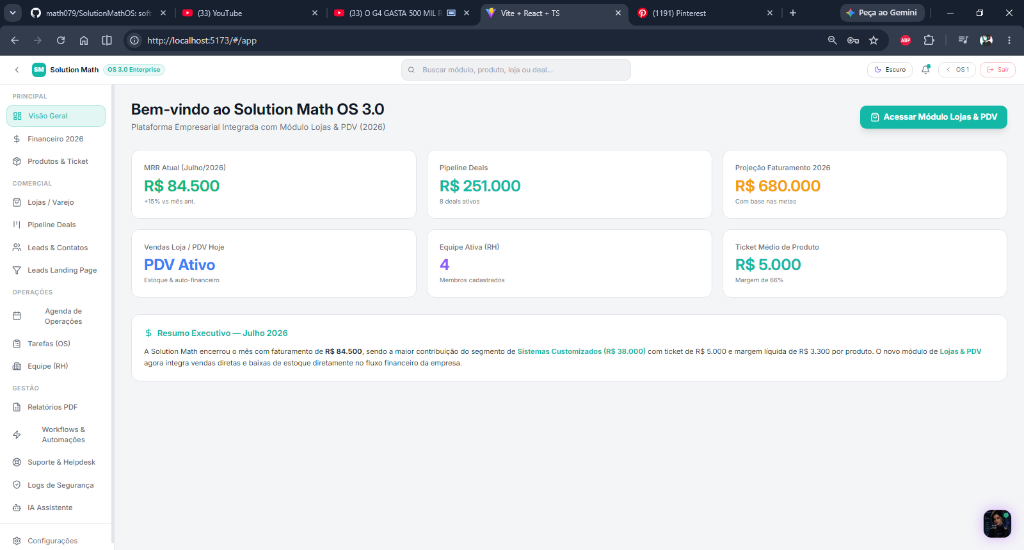
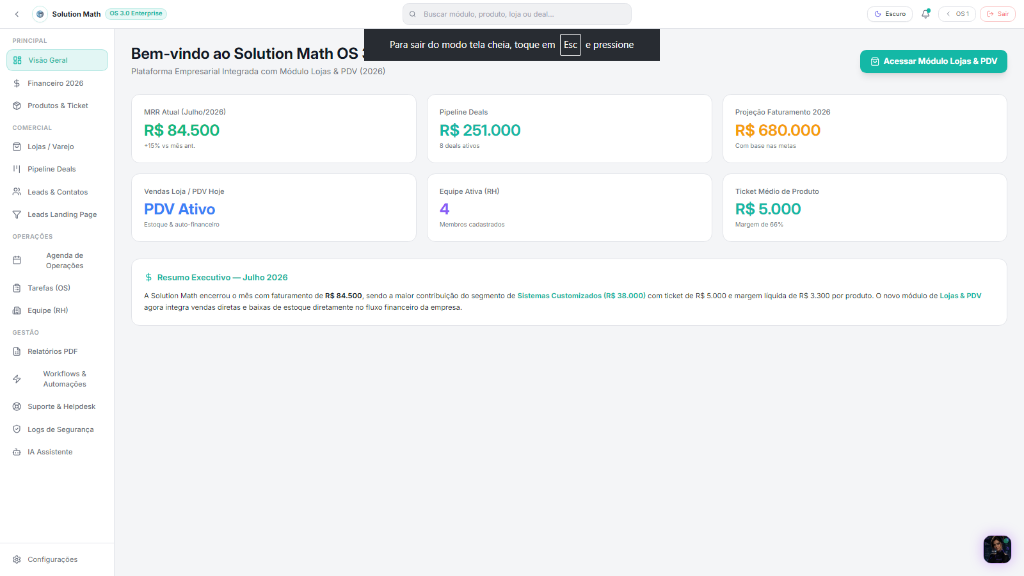
feat: nova screenshot sistema + remocao completa de emojis da landing page

diff --git a/src/pages/LandingPage.tsx b/src/pages/LandingPage.tsx
@@ -192,21 +192,10 @@ const LandingPage: React.FC = () => {
   const [redirectUrl, setRedirectUrl] = useState('');
 
   const generateWhatsAppLink = (name: string, businessType: string, plan: string) => {
-    const emojis: Record<string, string> = {
-      'Mercado / Mercearia': '🛒',
-      'Hortifruti': '🥦',
-      'Pet Shop': '🐾',
-      'Autopeças': '🔧',
-      'Papelaria': '📚',
-      'Materiais de Construção': '🏗',
-      'Distribuidora': '🚚',
-      'Outro comércio': '💼',
-    };
-    const emoji = emojis[businessType] || '💼';
     const planName = plan || 'Growth';
     const segment = businessType || 'meu negócio';
 
-    const text = `Olá, Solution Math! ${emoji}\n\nMeu nome é *${name}* e tenho um(a) *${segment}*.\n\nVi as funcionalidades do Solution Math OS e estou muito interessado no *Plano ${planName}*.\n\nGostaria de agendar uma demonstração gratuita de 30 minutos para ver na prática como o sistema vai me ajudar a organizar estoque, financeiro e clientes.\n\nPodemos conversar agora?`;
+    const text = `Olá, equipe Solution Math!\n\nMeu nome é *${name}* e sou responsável por um(a) *${segment}*.\n\nTenho interesse no *Plano ${planName}* do Solution Math OS.\n\nGostaria de agendar uma demonstração técnica de 30 minutos para avaliar o sistema na prática.\n\nQual o melhor horário para conversarmos?`;
     
     return `https://wa.me/5511939157368?text=${encodeURIComponent(text)}`;
   };
@@ -398,10 +387,10 @@ const LandingPage: React.FC = () => {
               {/* Feature Tabs Selector */}
               <div className="flex items-center gap-2 mb-3 bg-white/80 backdrop-blur-md p-1.5 rounded-2xl border border-gray-200/80 shadow-sm overflow-x-auto">
                 {[
-                  { id: 'dashboard', label: '📊 Visão Geral', badge: 'MRR R$ 84.5K' },
-                  { id: 'pdv', label: '🛒 Lojas & PDV', badge: 'Estoque Auto' },
-                  { id: 'crm', label: '💼 Pipeline Deals', badge: 'Kanban 2026' },
-                  { id: 'lyra', label: '🤖 IA Lyra', badge: 'Memória V2' },
+                  { id: 'dashboard', label: 'Visão Geral', badge: 'MRR R$ 84.5K' },
+                  { id: 'pdv', label: 'Lojas & PDV', badge: 'Estoque Auto' },
+                  { id: 'crm', label: 'Pipeline Deals', badge: 'Kanban 2026' },
+                  { id: 'lyra', label: 'IA Lyra 3.0', badge: 'Memória V2' },
                 ].map(t => (
                   <button
                     key={t.id}
@@ -545,7 +534,7 @@ const LandingPage: React.FC = () => {
 
             <div className="text-center max-w-2xl mx-auto mb-10 relative z-10">
               <span className="inline-flex items-center gap-2 bg-blue-100 text-blue-700 text-xs font-extrabold px-4 py-1.5 rounded-full mb-3 border border-blue-200 uppercase tracking-wider">
-                💡 Calculadora de ROI & Plano Ideal
+                Calculadora de ROI & Plano Ideal
               </span>
               <h2 className="text-2xl md:text-3xl font-extrabold text-gray-900 tracking-tight mb-2">
                 Simule a economia real para o seu comércio.
@@ -566,25 +555,24 @@ const LandingPage: React.FC = () => {
                   </label>
                   <div className="grid grid-cols-2 sm:grid-cols-3 gap-2">
                     {[
-                      { label: 'Mercado / Mercearia', emoji: '🛒' },
-                      { label: 'Pet Shop', emoji: '🐾' },
-                      { label: 'Autopeças / Mat. Const.', emoji: '🔧' },
-                      { label: 'Distribuidora / Varejo', emoji: '🚚' },
-                      { label: 'Prestador de Serviços', emoji: '💼' },
-                      { label: 'Outro comércio', emoji: '🏢' },
+                      'Mercado / Mercearia',
+                      'Pet Shop',
+                      'Autopeças / Mat. Const.',
+                      'Distribuidora / Varejo',
+                      'Prestador de Serviços',
+                      'Outro comércio',
                     ].map(s => (
                       <button
-                        key={s.label}
+                        key={s}
                         type="button"
-                        onClick={() => setCalcSegment(s.label)}
-                        className={`p-3 rounded-xl border text-xs font-bold text-left transition-all flex items-center gap-2 ${
-                          calcSegment === s.label
+                        onClick={() => setCalcSegment(s)}
+                        className={`p-3 rounded-xl border text-xs font-bold text-left transition-all ${
+                          calcSegment === s
                             ? 'bg-blue-600 text-white border-blue-600 shadow-md shadow-blue-500/20'
                             : 'bg-gray-50 hover:bg-gray-100 text-gray-700 border-gray-200'
                         }`}
                       >
-                        <span className="text-base">{s.emoji}</span>
-                        <span className="truncate">{s.label}</span>
+                        <span className="truncate">{s}</span>
                       </button>
                     ))}
                   </div>
@@ -654,32 +642,32 @@ const LandingPage: React.FC = () => {
                   let priceText = 'R$ 347/mês';
                   let hoursSaved = '28 horas/mês';
                   let moneySaved = 'R$ 1.450/mês';
-                  let badgeText = 'MAIS POPULAR ⭐';
+                  let badgeText = 'RECOMENDADO';
 
                   if (calcRevenue === 'ate_30k' && calcUsers === '1_3') {
                     recommendedPlan = 'Start';
                     priceText = 'R$ 197/mês';
                     hoursSaved = '16 horas/mês';
                     moneySaved = 'R$ 680/mês';
-                    badgeText = 'ESSENCIAL 🔵';
+                    badgeText = 'PLANO INICIAL';
                   } else if (calcRevenue === 'acima_300k' || calcUsers === 'mais_10') {
                     recommendedPlan = 'Enterprise';
-                    priceText = 'Sob Consulta (Sob Medida)';
+                    priceText = 'Sob Consulta';
                     hoursSaved = '45+ horas/mês';
                     moneySaved = 'R$ 3.900/mês';
-                    badgeText = 'EXCLUSIVO 👑';
+                    badgeText = 'PLANO CORPORATIVO';
                   }
 
                   return (
                     <div>
                       <div className="flex items-center justify-between mb-4">
-                        <span className="text-[11px] font-black uppercase tracking-wider px-3 py-1 bg-amber-400 text-slate-950 rounded-full">
+                        <span className="text-[10px] font-black uppercase tracking-widest px-3 py-1 bg-blue-500 text-white rounded-full">
                           {badgeText}
                         </span>
                         <span className="text-xs text-slate-400 font-medium">Recomendação Automática</span>
                       </div>
 
-                      <h4 className="text-xs text-blue-300 font-bold uppercase tracking-wider mb-1">Plano Recomendado</h4>
+                      <h4 className="text-xs text-blue-300 font-bold uppercase tracking-wider mb-1">Plano Ideal</h4>
                       <div className="text-3xl font-black text-white mb-1">
                         Plano {recommendedPlan}
                       </div>
@@ -689,15 +677,15 @@ const LandingPage: React.FC = () => {
 
                       <div className="space-y-3 mb-6 bg-slate-950/60 p-4 rounded-2xl border border-slate-800">
                         <div className="flex items-center justify-between text-xs">
-                          <span className="text-slate-400">⏱ Tempo Salvo em Gestão:</span>
+                          <span className="text-slate-400">Tempo Salvo em Gestão:</span>
                           <span className="font-bold text-emerald-400">{hoursSaved}</span>
                         </div>
                         <div className="flex items-center justify-between text-xs">
-                          <span className="text-slate-400">💰 Prevenção de Perdas:</span>
+                          <span className="text-slate-400">Prevenção de Perdas:</span>
                           <span className="font-bold text-emerald-400">{moneySaved}</span>
                         </div>
                         <div className="flex items-center justify-between text-xs">
-                          <span className="text-slate-400">🚀 Prazo de Implantação:</span>
+                          <span className="text-slate-400">Prazo de Implantação:</span>
                           <span className="font-bold text-blue-300">Até 48 horas</span>
                         </div>
                       </div>
@@ -830,8 +818,8 @@ const LandingPage: React.FC = () => {
                     : 'bg-white border-2 border-gray-200 hover:border-blue-200 hover:shadow-xl'}`}
               >
                 {plan.badge && (
-                  <div className="absolute top-0 left-1/2 -translate-x-1/2 -translate-y-1/2 bg-amber-400 text-amber-900 text-[11px] font-extrabold px-4 py-1 rounded-full shadow-lg whitespace-nowrap">
-                    ⭐ {plan.badge}
+                  <div className="absolute top-0 left-1/2 -translate-x-1/2 -translate-y-1/2 bg-amber-400 text-amber-900 text-[11px] font-extrabold px-4 py-1 rounded-full shadow-lg whitespace-nowrap uppercase tracking-wider">
+                    {plan.badge}
                   </div>
                 )}
 
@@ -867,8 +855,8 @@ const LandingPage: React.FC = () => {
                     <div className={`text-xs mt-3 mb-6 px-3 py-2.5 rounded-xl font-medium ${plan.highlight ? 'bg-white/15 text-blue-50 border border-white/20' : 'bg-blue-50 text-blue-700 border border-blue-100'}`}>
                       {billing === 'annual'
                         ? plan.implantacaoAnual === 'GRÁTIS'
-                          ? '🎁 Implantação GRATUITA no plano anual'
-                          : `🎁 Implantação por R$${plan.implantacaoAnual} no plano anual`
+                          ? 'Implantação GRATUITA no plano anual'
+                          : `Implantação por R$${plan.implantacaoAnual} no plano anual`
                         : `+ Taxa de implantação: R$${plan.implantacao}`}
                     </div>
                   )}
@@ -954,7 +942,9 @@ const LandingPage: React.FC = () => {
       <section className="py-20 bg-gray-900">
         <div className="max-w-5xl mx-auto px-5">
           <div className="flex flex-col md:flex-row items-center gap-10">
-            <div className="text-6xl flex-shrink-0">🛡</div>
+            <div className="w-16 h-16 bg-blue-600 rounded-2xl flex items-center justify-center flex-shrink-0">
+              <Shield className="w-9 h-9 text-white" />
+            </div>
             <div className="flex-1">
               <h2 className="text-3xl font-extrabold text-white mb-3">7 dias de garantia incondicional.</h2>
               <p className="text-gray-400 text-base leading-relaxed">
@@ -1077,14 +1067,14 @@ const LandingPage: React.FC = () => {
                         className="w-full border-2 border-gray-200 focus:border-blue-500 rounded-xl px-4 py-3 text-sm outline-none transition-colors text-gray-700"
                       >
                         <option value="">Selecione seu segmento</option>
-                        <option value="Mercado / Mercearia">Mercado / Mercearia 🛒</option>
-                        <option value="Hortifruti">Hortifruti 🥦</option>
-                        <option value="Pet Shop">Pet Shop 🐾</option>
-                        <option value="Autopeças">Autopeças 🔧</option>
-                        <option value="Papelaria">Papelaria 📚</option>
-                        <option value="Materiais de Construção">Materiais de Construção 🏗</option>
-                        <option value="Distribuidora">Distribuidora 🚚</option>
-                        <option value="Outro comércio">Outro comércio 💼</option>
+                        <option value="Mercado / Mercearia">Mercado / Mercearia</option>
+                        <option value="Hortifruti">Hortifruti</option>
+                        <option value="Pet Shop">Pet Shop</option>
+                        <option value="Autopeças">Autopeças</option>
+                        <option value="Papelaria">Papelaria</option>
+                        <option value="Materiais de Construção">Materiais de Construção</option>
+                        <option value="Distribuidora">Distribuidora</option>
+                        <option value="Outro comércio">Outro comércio</option>
                       </select>
                     </div>
                     <div>
